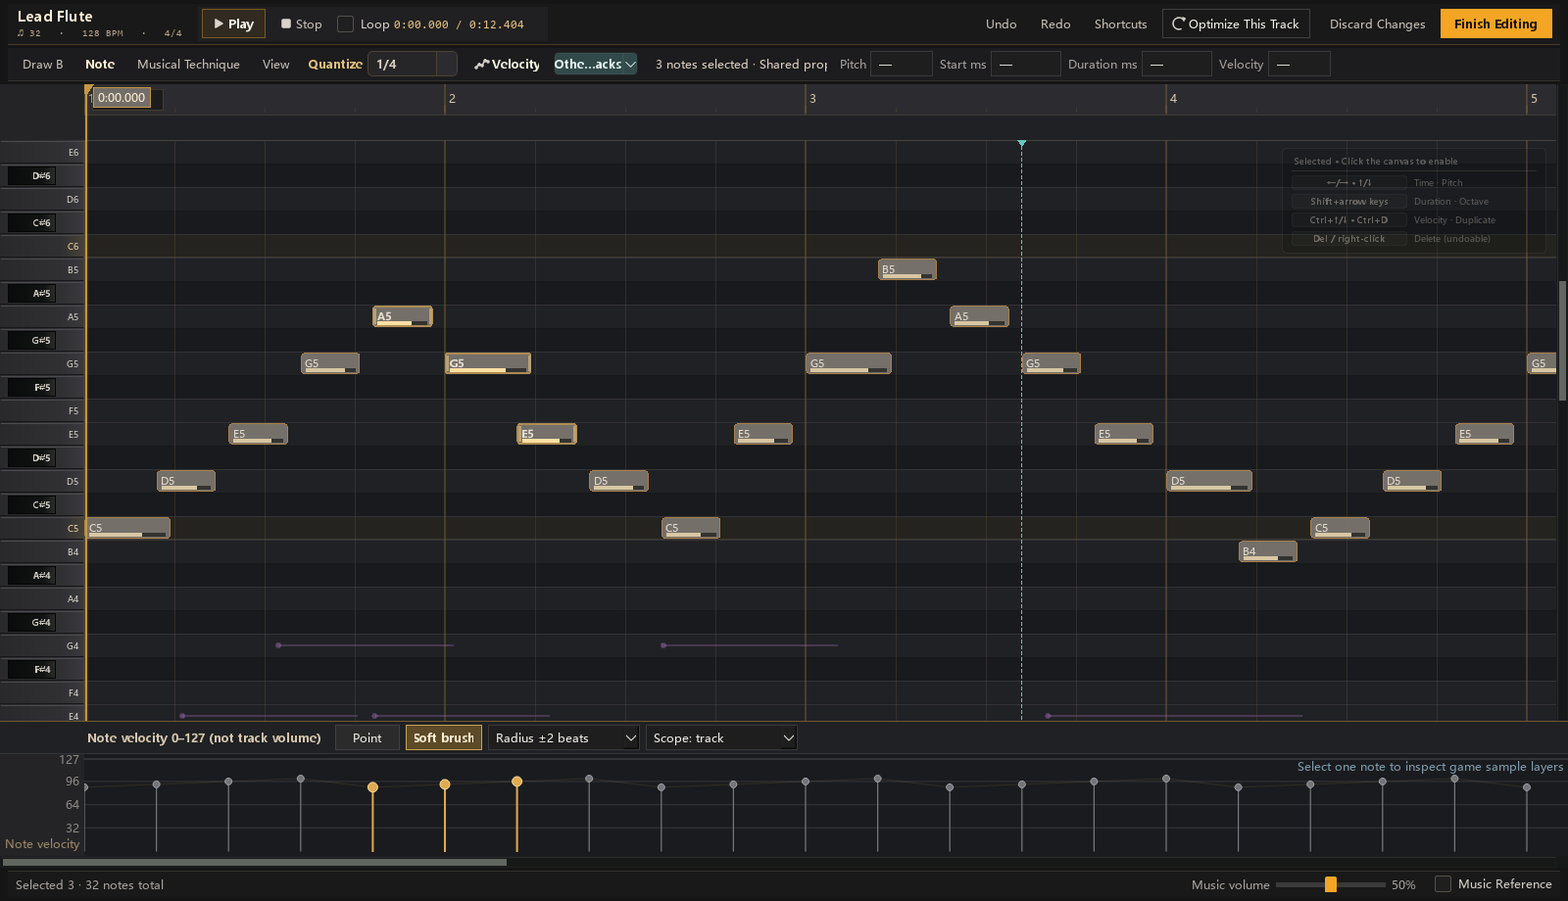
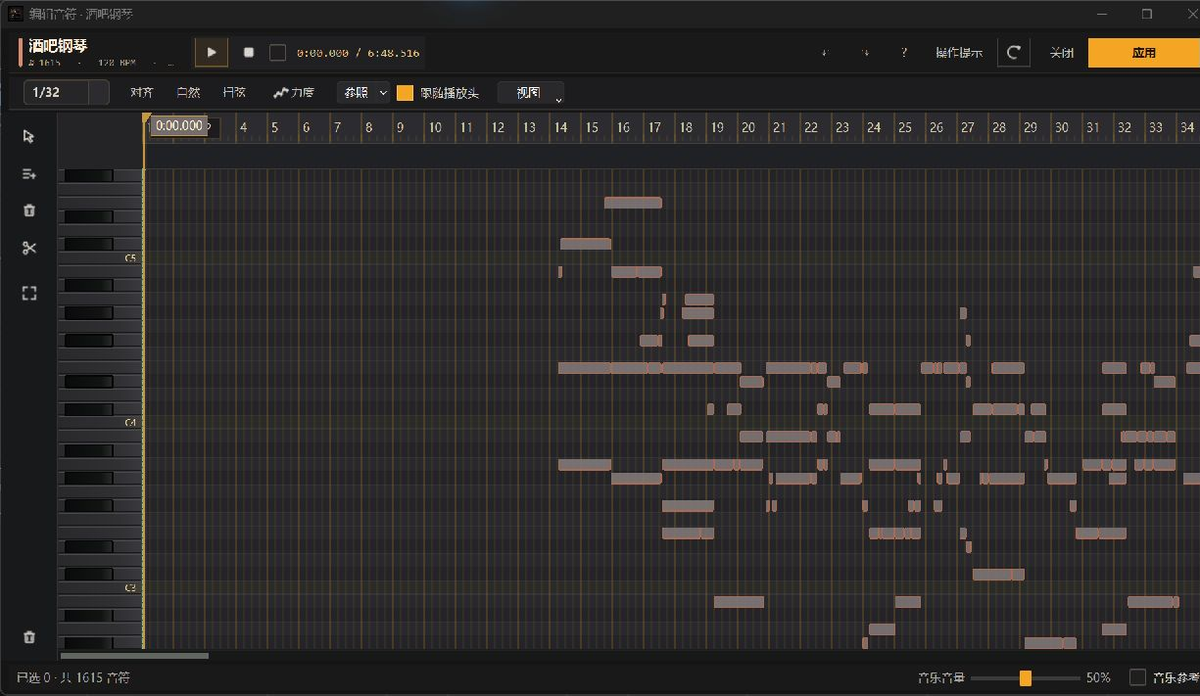
Refresh documentation and interface screenshots (#32)

Changed region(s): [[0.0, 0.0, 1.0, 1.0], [0.9927, 0.5879, 1.0, 0.6188]]

diff --git a/docs/README.md b/docs/README.md
@@ -1,90 +1,45 @@
-# Documentation index
+# Documentation
 
-This is the canonical index for current contracts, evidence, and historical
-records. User-facing summaries stay in [`locales/`](locales/).
+Use this page as the routing index for current product contracts, engineering
+guides, and historical evidence. User-facing guides live in
+[`locales/`](locales/). Current code and tests override historical records.
 
-Documentation is split into current contracts, domain references, and evidence.
-Tests and code override historical records.
+## Choose by task
 
-## Start here
+| Task | Read first | Continue with |
+|---|---|---|
+| Use the application | [Localized guides](locales/) | [Composition authoring](BDO_COMPOSITION_AUTHORING.md) |
+| Take over development | [Agent handoff](AGENT_HANDOFF.md) | [AI context](AI_CONTEXT.md), [editing guide](AI_EDITING_GUIDE.md) |
+| Understand the system | [Architecture](ARCHITECTURE.md) | [Project structure](PROJECT_STRUCTURE.md) |
+| Use the developer API | [Developer SDK](DEVELOPER_SDK.md) | [Extension roadmap](OPTIMIZATION_EXTENSION_ROADMAP.md) |
+| Package or publish | [Windows packaging](WINDOWS_PACKAGING.md) | [Localization](LOCALIZATION.md), [content boundary](CONTENT_BOUNDARY.md) |
+| Investigate performance | [Native core plan](PERFORMANCE_NATIVE_CORE_PLAN.md) | [Benchmarks](benchmarks/) |
+| Review product UI | [Creative language and UI audit](CREATIVE_LANGUAGE_AND_UI_AUDIT.md) | [Professional desktop gates](PROFESSIONAL_DESKTOP_PHASE6_10.md) |
 
-- [`AGENT_HANDOFF.md`](AGENT_HANDOFF.md) — takeover and validation workflow.
-- [`ARCHITECTURE.md`](ARCHITECTURE.md) — runtime data flow and component contracts.
-- [`AI_CONTEXT.md`](AI_CONTEXT.md) — task routing and minimum validation matrix.
-- [`AI_EDITING_GUIDE.md`](AI_EDITING_GUIDE.md) — owner and dependency rules.
-- [`PROJECT_STRUCTURE.md`](PROJECT_STRUCTURE.md) — directory and entry-point index.
-- [`DEVELOPER_SDK.md`](DEVELOPER_SDK.md) — stable core API, optional reusable UI,
-  examples, and deterministic source-SDK packaging.
-- [`OPTIMIZATION_EXTENSION_ROADMAP.md`](OPTIMIZATION_EXTENSION_ROADMAP.md) —
-  remaining structural work and performance gates.
-- [`PERFORMANCE_NATIVE_CORE_PLAN.md`](PERFORMANCE_NATIVE_CORE_PLAN.md) —
-  measured professional-performance targets, native-core decision gates, and
-  the staged Python/C++ integration plan.
+## Current contracts by domain
 
-- [`PROFESSIONAL_DESKTOP_PHASE6_10.md`](PROFESSIONAL_DESKTOP_PHASE6_10.md) —
-  trusted release, recovery, accessibility qualification, native-audio
-  promotion, and explainable BDO semantic gates.
-- [`CREATIVE_LANGUAGE_AND_UI_AUDIT.md`](CREATIVE_LANGUAGE_AND_UI_AUDIT.md) —
-  current visual language, interaction principles, and interface-by-interface
-  product audit.
-
-## Domain contracts
-
-- Format and export: [`BDO_V9_CODEC.md`](BDO_V9_CODEC.md),
-  [`BDO_MUSIC_NOTES.md`](BDO_MUSIC_NOTES.md),
-  [`CONVERSION_SETTINGS.md`](CONVERSION_SETTINGS.md), and
-  [`NOTE_ARTICULATION_TRANSPOSE_ALGORITHM_LOCK.md`](NOTE_ARTICULATION_TRANSPOSE_ALGORITHM_LOCK.md).
-- Editor and game evidence: [`BDO_COMPOSITION_AUTHORING.md`](BDO_COMPOSITION_AUTHORING.md),
-  [`BDO_MIXER_EFFECTS.md`](BDO_MIXER_EFFECTS.md), and
-  [`INSTRUMENT_EDITOR_ADAPTATION.md`](INSTRUMENT_EDITOR_ADAPTATION.md), plus
-  [`PERCUSSION_ROLL_EVALUATION.md`](PERCUSSION_ROLL_EVALUATION.md).
-- Music semantics: [`BDO_ARTICULATION_RULES.md`](BDO_ARTICULATION_RULES.md),
-  [`INSTRUMENT_ARTICULATION_GUIDE.md`](INSTRUMENT_ARTICULATION_GUIDE.md),
-  [`MIDI_TECHNIQUE_MODEL.md`](MIDI_TECHNIQUE_MODEL.md), and
-  [`MUSIC_THEORY_KNOWLEDGE_BASE.md`](MUSIC_THEORY_KNOWLEDGE_BASE.md).
-- Transcription: [`TRANSCRIPTION_VOICE_GUIDES.md`](TRANSCRIPTION_VOICE_GUIDES.md),
-  [`TRANSCRIPTION_FRAGMENT_AND_TIMBRE_PLAN.md`](TRANSCRIPTION_FRAGMENT_AND_TIMBRE_PLAN.md),
-  [`REFERENCE_TIMBRE_GROUPING.md`](REFERENCE_TIMBRE_GROUPING.md),
-  [`MARNIAN_MUSE_OPTIONAL_BOUNDARY.md`](MARNIAN_MUSE_OPTIONAL_BOUNDARY.md), and
-  [`BASIC_PITCH_LICENSE_REVIEW.md`](BASIC_PITCH_LICENSE_REVIEW.md).
-- Audio and samples: [`AUDIO_SOURCE_STRATEGY.md`](AUDIO_SOURCE_STRATEGY.md) and
-  [`BDO_SAMPLE_MAPPING_STATUS.md`](BDO_SAMPLE_MAPPING_STATUS.md). The governing
-  client-content rule is [`CONTENT_BOUNDARY.md`](CONTENT_BOUNDARY.md).
-- Product operations: [`LOCALIZATION.md`](LOCALIZATION.md) and
-  [`WINDOWS_PACKAGING.md`](WINDOWS_PACKAGING.md), including the signed
-  GitHub/Gitee single-EXE self-update release protocol.
-- Rehearsal tools: [`MULTIPLAYER_SYNCHRONIZER.md`](MULTIPLAYER_SYNCHRONIZER.md)
-  documents the Global BPM authority, automatic reference-tempo following, and
-  the reserved network-room adapter boundary.
+| Domain | Canonical references |
+|---|---|
+| Format and export | [BDO v9 codec](BDO_V9_CODEC.md), [music notes](BDO_MUSIC_NOTES.md), [conversion settings](CONVERSION_SETTINGS.md), [articulation and transpose lock](NOTE_ARTICULATION_TRANSPOSE_ALGORITHM_LOCK.md) |
+| Editor and game evidence | [Composition authoring](BDO_COMPOSITION_AUTHORING.md), [mixer effects](BDO_MIXER_EFFECTS.md), [instrument editor adaptation](INSTRUMENT_EDITOR_ADAPTATION.md), [percussion roll evaluation](PERCUSSION_ROLL_EVALUATION.md) |
+| Music semantics | [Articulation rules](BDO_ARTICULATION_RULES.md), [instrument articulation](INSTRUMENT_ARTICULATION_GUIDE.md), [MIDI technique model](MIDI_TECHNIQUE_MODEL.md), [music theory](MUSIC_THEORY_KNOWLEDGE_BASE.md) |
+| Transcription | [Voice guides](TRANSCRIPTION_VOICE_GUIDES.md), [fragment and timbre plan](TRANSCRIPTION_FRAGMENT_AND_TIMBRE_PLAN.md), [reference timbre grouping](REFERENCE_TIMBRE_GROUPING.md), [Marnian Muse boundary](MARNIAN_MUSE_OPTIONAL_BOUNDARY.md), [Basic Pitch license review](BASIC_PITCH_LICENSE_REVIEW.md) |
+| Audio and samples | [Audio source strategy](AUDIO_SOURCE_STRATEGY.md), [sample mapping status](BDO_SAMPLE_MAPPING_STATUS.md), [content boundary](CONTENT_BOUNDARY.md) |
+| Product operations | [Localization](LOCALIZATION.md), [Windows packaging](WINDOWS_PACKAGING.md) |
+| Rehearsal tools | [Multiplayer synchronizer](MULTIPLAYER_SYNCHRONIZER.md) |
 
 ## Evidence and history
 
-- [`releases/RELEASE_NOTES_V1.2.1.md`](releases/RELEASE_NOTES_V1.2.1.md)
-  records the current v1.2.1 sample-pack preview release and verification.
-- [`releases/RELEASE_NOTES_V1.2.0.2.md`](releases/RELEASE_NOTES_V1.2.0.2.md)
-  records the historical v1.2.0.2 percussion-editor test release and verification.
-- [`releases/RELEASE_NOTES_V1.2.0.1.md`](releases/RELEASE_NOTES_V1.2.0.1.md)
-  records the historical v1.2.0.1 test-release scope and verification evidence.
-- [`releases/RELEASE_NOTES_V1.2.0.md`](releases/RELEASE_NOTES_V1.2.0.md)
-  records the historical v1.2.0 release scope and verification evidence.
-- [`releases/RELEASE_NOTES_V1.1.2.md`](releases/RELEASE_NOTES_V1.1.2.md)
-  records the historical v1.1.2 release scope and verification evidence.
-- [`releases/RELEASE_NOTES_V1.1.1.md`](releases/RELEASE_NOTES_V1.1.1.md)
-  records the historical v1.1.1 release scope and verification evidence.
-- [`releases/RELEASE_NOTES_V1.1.0.md`](releases/RELEASE_NOTES_V1.1.0.md)
-  records the historical v1.1.0 release scope and verification evidence.
-- [`benchmarks/`](benchmarks/) contains reproducible benchmark protocols and
+- [`releases/`](releases/) contains versioned release scope and verification
+  records. The latest packaged sample-preview record is
+  [v1.2.1](releases/RELEASE_NOTES_V1.2.1.md); the source application is currently
+  v1.3.0.
+- [`benchmarks/`](benchmarks/) contains reproducible performance protocols and
   result snapshots.
-- [`benchmarks/performance_native_phase0_5_2026-08-09.md`](benchmarks/performance_native_phase0_5_2026-08-09.md)
-  records the measured Phase 0–5 performance/native evaluation, gate decisions,
-  and final regression evidence.
-- [`benchmarks/performance_refinement_2026-08-10.md`](benchmarks/performance_refinement_2026-08-10.md)
-  records the post-Phase 10 hot-path diagnosis, piano-roll refinement, current
-  Python/native audio gate, and code-capability assessment.
-- [`benchmarks/windows_p0_p4_2026-08-10.md`](benchmarks/windows_p0_p4_2026-08-10.md)
-  records the Windows-only P0–P4 interaction gates, refresh extraction, native
-  semantic parity boundary, extension contracts, and measured limitations.
-- [`reference/game-ui/README.md`](reference/game-ui/README.md) indexes
-  private-source-safe game UI evidence.
-- [`history/`](history/) contains implementation and dated audit records.
-- [`releases/`](releases/) contains release records.
+- [`history/`](history/) contains dated implementation and audit records.
+- [`reference/game-ui/`](reference/game-ui/) indexes private-source-safe game UI
+  evidence.
+
+Historical documents describe the state at the date recorded. Do not use them
+as a substitute for the current contracts above, `AGENTS.md`, or regression
+tests.

diff --git a/README.md b/README.md
@@ -1,69 +1,73 @@
 # BDO Music Composer
 
-Unofficial desktop music editor and Black Desert score workbench.
+Unofficial desktop music editor and Black Desert score workbench. Arrange
+multitrack clips, edit MIDI notes, preview locally, and export the current
+project state as a BDO v9 score.
 
-## Interface preview
+[简体中文](docs/locales/zh-CN.md) · [English](docs/locales/en.md) ·
+[日本語](docs/locales/ja.md) · [한국어](docs/locales/ko.md)
 
-![Project home with local projects and game scores](docs/images/readme-home.png)
+![BDO Music Composer v1.3.0 multitrack arrangement](docs/images/readme-timeline.png)
 
-| Multitrack timeline | Piano-roll note editor |
+## Highlights
+
+- Arrange and merge clips across a multitrack timeline with select, razor, and
+  stateful snapping tools. Snap priority is time marker, clips, then grid.
+- Edit notes, velocity, rhythm, articulations, and track instruments in the
+  piano roll while keeping operations undoable.
+- Open MIDI or existing BDO scores, autosave locally, preview the edited model,
+  and export that same current model without falling back to the original MIDI.
+- Use local optimization and transcription assistance as reviewable editing
+  aids rather than destructive one-click replacements.
+
+## Get started
+
+Most users should download the Windows build from
+[GitHub Releases](https://github.com/CocoaMist/3007-BDO_Music_Composer/releases).
+Source development requires Python 3.12 and the environment described in
+[`CONTRIBUTING.md`](CONTRIBUTING.md). The application entry point is `main.py`.
+
+1. Create a project, import MIDI, or open a BDO score.
+2. Arrange clips on the timeline and edit notes in the piano roll.
+3. Preview the result and review automatic export validation.
+4. Export with a valid Owner ID, then verify the score in game.
+
+## Note editor
+
+![BDO Music Composer v1.3.0 piano-roll note editor](docs/images/readme-piano-roll.png)
+
+## Documentation
+
+| Need | Start here |
 |---|---|
-| ![Multitrack arrangement timeline](docs/images/readme-timeline.png) | ![Piano-roll editor with velocity lane and shortcut HUD](docs/images/readme-piano-roll.png) |
+| Use the application | [中文](docs/locales/zh-CN.md) · [English](docs/locales/en.md) · [日本語](docs/locales/ja.md) · [한국어](docs/locales/ko.md) |
+| Browse technical documentation | [Documentation index](docs/README.md) |
+| Understand architecture and data flow | [Architecture](docs/ARCHITECTURE.md) |
+| Contribute code | [Contributing guide](CONTRIBUTING.md) |
+| Continue work as an agent or maintainer | [`AGENTS.md`](AGENTS.md), then [Agent handoff](docs/AGENT_HANDOFF.md) |
+| Build a Windows release | [Windows packaging](docs/WINDOWS_PACKAGING.md) |
 
-## Choose your language / 选择语言
+## Local content and preview audio
 
-Each link opens a concise guide for using and contributing to the project.
+Projects, settings, Owner IDs, caches, and external content remain local. The
+application has no account login, telemetry, or file upload, and it does not
+acquire or distribute restricted content. See the governing
+[content boundary](docs/CONTENT_BOUNDARY.md).
 
-| Language | Full README |
-|---|---|
-| 简体中文 | [中文指南](docs/locales/zh-CN.md) |
-| English | [English guide](docs/locales/en.md) |
-| 日本語 | [日本語ガイド](docs/locales/ja.md) |
-| 한국어 | [한국어 안내](docs/locales/ko.md) |
+Releases may separately provide the optional
+`BDO-Approximate-CC0-Full-Coverage-v4-Compact.bdosamples` pack. It contains
+independently licensed CC0 material for approximate editing preview, not Black
+Desert client audio or game-original sound. Provenance, configuration, and the
+v1.2.1 pack checksum are documented in
+[Audio source strategy](docs/AUDIO_SOURCE_STRATEGY.md).
 
-## Agent / maintainer handoff
+## Status and license
 
-AI coding agents and new maintainers must start with [`AGENTS.md`](AGENTS.md), then read the [Agent handoff and collaboration guide](docs/AGENT_HANDOFF.md). The guide contains the repository routing map, invariants, validation matrix, privacy rules, and a reusable handoff packet.
+Core editing, autosave, optimization, preview, transcription assistance, and
+score export have automated regression coverage. Hardware, audio-device, and
+game-version compatibility can still vary. This community project is not
+affiliated with Pearl Abyss.
 
-继续开发前，AI Agent 与新维护者必须先阅读 [`AGENTS.md`](AGENTS.md)，再阅读 [Agent 接手与协作手册](docs/AGENT_HANDOFF.md)。
-
-## Project status
-
-The core editing, autosave, optimization, preview, transcription-assist, and score-export flows are regression tested, but hardware and game-version compatibility can vary. This is an unofficial community project and is not affiliated with Pearl Abyss.
-
-The application processes projects locally. It has no account login, telemetry, or file upload. It does not provide restricted-content acquisition or distribution; users are responsible for the source and permission of external content.
-
-## Optional CC0 sample pack
-
-Releases may provide `BDO-Approximate-CC0-Full-Coverage-v4-Compact.bdosamples`
-as a separate, optional preview asset. The app itself remains usable with its
-built-in general source; choose **Sample Pack** in Settings to locate this or
-another compatible pack. External pack paths stay in local configuration and
-are never compiled into the EXE.
-
-The v4 pack contains unchanged WAV bytes selected from three independently
-licensed CC0 libraries: [VSCO 2 Community Edition](https://github.com/sgossner/VSCO-2-CE),
-[Versilian Community Sample Library](https://github.com/sgossner/VCSL), and the
-CC0 instrument banks published by [FreePats](https://freepats.zenvoid.org/).
-Its `manifest.json` records the source library, upstream relative path, and
-SHA-256 for every audio slot. It contains no Black Desert client audio and is
-an approximate editing preview, not game-original or A/B-verified sound.
-
-Release v1.2.1 pack SHA-256:
[1 lines of base64/hex data omitted]
-
-## Quick links
-
-- [Documentation index](docs/README.md)
-- [Developer SDK and reusable UI](docs/DEVELOPER_SDK.md)
-- [Architecture](docs/ARCHITECTURE.md)
-- [Content and audio boundary](docs/CONTENT_BOUNDARY.md)
-- [AI change-routing context](docs/AI_CONTEXT.md)
-- [Agent handoff guide](docs/AGENT_HANDOFF.md)
-- [Decoupling, performance, and extension roadmap](docs/OPTIMIZATION_EXTENSION_ROADMAP.md)
-- [Windows packaging](docs/WINDOWS_PACKAGING.md)
-- [BDO v9 codec](docs/BDO_V9_CODEC.md)
-- [Localization policy](docs/LOCALIZATION.md)
-- [Contributing](CONTRIBUTING.md)
-- [Third-party notices](THIRD_PARTY_NOTICES.md)
-- [MIT license for original project code](LICENSE)
+Original project code is available under the [MIT License](LICENSE).
+Third-party components and references retain their own terms; see
+[Third-party notices](THIRD_PARTY_NOTICES.md).

diff --git a/docs/ARCHITECTURE.md b/docs/ARCHITECTURE.md
@@ -442,8 +442,8 @@ optimizer cannot block repainting the main UI. `registry.py` and
 The preview validator distinguishes imported compatibility debt from newly
 created unsafe output: an unchanged out-of-map pitch, manual articulation, or
 legacy drum encoding may be timing/velocity-cleaned but cannot be duplicated or
-invented.  Such source issues stay visible as diagnostics and remain owned by
-the conversion-check/export gate rather than disabling the optimizer dialog.
+invented. Such source issues stay visible through automatic timeline/export
+validation rather than disabling the optimizer dialog.
 
 `src/bdo_music_composer/ui/dialogs/optimizer_dialog.py` exposes one **MIDI Optimization** workbench instead of
 separate global and track dialogs. Scope is a first-level control shown before
@@ -910,9 +910,9 @@ projected onto each affected lane. Red rails and `!` badges are reserved for har
 export errors; amber rails and merge badges are non-blocking attention marks for
 same-instrument export merges. Each lane renders only its highest severity: an
 error lane stays fully red, while its lower-priority merge information remains
-in the tooltip/check dialog instead of splitting the lane red/amber. Hover exposes
-the localized reasons and clicking a badge opens the matching conversion-check
-item. There is no dedicated persistent validation row above the canvas; only a
+in the lane tooltip instead of splitting the lane red/amber. Hover exposes the
+localized reasons. There is no conversion-check menu or dedicated persistent
+validation row above the canvas; only a
 deduplicated global toast appears when the highest validation state changes, then
 automatically clears. Validation remains owned by `src/bdo_music_composer/export/bdo_validation.py`.
 
@@ -984,8 +984,8 @@ name, and destination gates. `build_export_request()` then freezes every formal
 worker starts. It derives articulation, Volume and dual-velocity maps from that
 same snapshot, preserves per-track Aux bytes, and overlays the single Master
 layer. A malformed eight-byte source setting fails closed instead of being
-silently replaced. The worker therefore never races later editor mutations. `prepare_export()` owns
-Conversion diagnostics are advisory at this boundary: users may explicitly
+silently replaced. The worker therefore never races later editor mutations.
+Automatic conversion diagnostics are advisory at this boundary: users may explicitly
 confirm an export with note/range/mapping errors, while Owner ID, `/4` meter,
 destination, serializer, verification, and atomic-publication failures remain
 hard stops. `prepare_export()` owns

diff --git a/docs/AGENT_HANDOFF.md b/docs/AGENT_HANDOFF.md
@@ -51,10 +51,10 @@ MIDI / BDO v9
 | 任务 | 首要模块 | 边界说明 |
 |---|---|---|
 | 主窗口信号和工作流编排 | `src/bdo_music_composer/ui/main_window.py` | 只放 UI 编排；新领域逻辑优先进入聚焦模块 |
-| 模型 revision / 转换校验 | `src/bdo_music_composer/editor/model_revision.py`, `src/bdo_music_composer/app/conversion_validation_controller.py` | 可变轨道必须经过显式 mutation boundary；快照只按 revision/语言复用 |
+| 模型 revision / 自动导出校验 | `src/bdo_music_composer/editor/model_revision.py`, `src/bdo_music_composer/app/conversion_validation_controller.py`, `src/bdo_music_composer/ui/timeline_validation_host.py` | 可变轨道必须经过显式 mutation boundary；快照只按 revision/语言复用；结果投影到时间轴与导出确认，不提供独立“转换检查”菜单 |
 | 轨道/音符共享模型 | `src/bdo_music_composer/editor/editor_models.py`, `src/bdo_midi/` | `Note(pitch, vel, start, dur, ntype)` 线形状不可随意改变 |
 | 时间轴/钢琴卷帘 | `src/bdo_music_composer/ui/editor/timeline_canvas.py`, `src/bdo_music_composer/ui/editor/piano_roll_canvas.py`, `src/bdo_music_composer/ui/editor/midi_note_editor.py` | 绘制必须保持可见区索引和批处理 |
-| 设置、检查、优化、致谢 | `src/bdo_music_composer/ui/dialogs/application_settings_dialog.py`, `src/bdo_music_composer/ui/dialogs/conversion_check_dialog.py`, `src/bdo_music_composer/ui/dialogs/optimizer_dialog.py`, `src/bdo_music_composer/ui/dialogs/track_settings_dialogs.py`, `src/bdo_music_composer/ui/dialogs/acknowledgements_dialog.py` | 对话框自主管布局和展示，主窗口只注入状态并应用结果 |
+| 设置、优化、轨道配置、致谢 | `src/bdo_music_composer/ui/dialogs/application_settings_dialog.py`, `src/bdo_music_composer/ui/dialogs/optimizer_dialog.py`, `src/bdo_music_composer/ui/dialogs/track_settings_dialogs.py`, `src/bdo_music_composer/ui/dialogs/acknowledgements_dialog.py` | 对话框自主管布局和展示，主窗口只注入状态并应用结果 |
 | 优化算法 | `src/optimization/` | `builtin.py` 是生产管线，`registry.py` / plugin API 是扩展边界 |
 | 实时预览 | `src/bdo_music_composer/audio/bdo_realtime_audio.py`, `src/bdo_music_composer/audio/bdo_sample_renderer.py` | 音频回调禁止磁盘 I/O、解码和无界分配 |
 | 扒谱 | `bdo_transcription*.py`, `src/bdo_music_composer/ui/transcription/transcription_workers.py` | 分析后台运行；正式音符只能经用户确认写回 |

diff --git a/docs/locales/ja.md b/docs/locales/ja.md
@@ -14,10 +14,11 @@ BDO Music Composer は、Black Desert の楽譜をローカルで作成・確認
 <!-- section:features -->
 ## 主な機能
 
-- MIDI の読み込みまたは空のプロジェクトから、複数トラックのノート、ベロシティ、リズム、奏法を編集。
+- MIDI の読み込みまたは空のプロジェクトから、マルチトラック上のクリップを配置、分割、移動、結合。
+- マーカー、クリップ、グリッドの順で優先する自動スナップを使い、ピアノロールでノート、ベロシティ、リズム、奏法を編集。
 - 現在の編集状態を保ったまま既存楽譜を開き、再編集して書き出し。
 - ローカル採譜支援の結果を、確定前に編集可能な下書きとして確認。
-- 取り消し可能な最適化、自動保存、書き出し検査、ローカルプロジェクト管理。
+- 取り消し可能な最適化、自動保存、自動書き出し検証、ローカルプロジェクト管理。
 
 <!-- section:requirements -->
 ## 導入と起動
@@ -28,8 +29,8 @@ BDO Music Composer は、Black Desert の楽譜をローカルで作成・確認
 ## 基本ワークフロー
 
 1. プロジェクト作成、MIDI 読み込み、または楽譜を開きます。
-2. アレンジとノートを編集します。
-3. 試聴と検査で結果を確認します。
+2. タイムラインでクリップを配置し、ピアノロールでノートを調整します。
+3. 試聴と自動検証で結果を確認します。
 4. 有効な Owner ID で書き出し、ゲーム内で確認します。
 
 <!-- section:local-assets -->

diff --git a/docs/locales/ko.md b/docs/locales/ko.md
@@ -14,10 +14,11 @@ BDO Music Composer는 Black Desert 악보를 로컬에서 만들고 검토하고
 <!-- section:features -->
 ## 주요 기능
 
-- MIDI를 가져오거나 빈 프로젝트에서 시작해 여러 트랙의 음표, 벨로시티, 리듬, 주법을 편집합니다.
+- MIDI를 가져오거나 빈 프로젝트에서 시작해 멀티트랙 타임라인의 클립을 배치, 분할, 이동, 병합합니다.
+- 마커, 클립, 그리드 순서의 자동 스냅을 사용하고 피아노 롤에서 음표, 벨로시티, 리듬, 주법을 편집합니다.
 - 현재 편집 상태를 유지하면서 기존 악보를 열고 다시 내보냅니다.
 - 로컬 채보 지원 결과를 확정 전에 편집 가능한 초안으로 검토합니다.
-- 취소 가능한 최적화, 자동 저장, 내보내기 검사, 로컬 프로젝트 관리를 제공합니다.
+- 취소 가능한 최적화, 자동 저장, 자동 내보내기 검증, 로컬 프로젝트 관리를 제공합니다.
 
 <!-- section:requirements -->
 ## 설치와 실행
@@ -28,8 +29,8 @@ BDO Music Composer는 Black Desert 악보를 로컬에서 만들고 검토하고
 ## 기본 작업 흐름
 
 1. 프로젝트를 만들거나 MIDI를 가져오거나 악보를 엽니다.
-2. 편곡과 음표를 편집합니다.
-3. 미리듣기와 검사로 결과를 확인합니다.
+2. 타임라인에서 클립을 배치하고 피아노 롤에서 음표를 다듬습니다.
+3. 미리듣기와 자동 검증으로 결과를 확인합니다.
 4. 유효한 Owner ID로 내보낸 뒤 게임 안에서 확인합니다.
 
 <!-- section:local-assets -->

diff --git a/docs/locales/en.md b/docs/locales/en.md
@@ -14,10 +14,11 @@ Editing, autosave, optimization, preview, transcription assistance, and score ex
 <!-- section:features -->
 ## Features
 
-- Import MIDI or begin with an empty project and edit multitrack notes, velocity, rhythm, and articulations.
+- Import MIDI or begin with an empty project, then arrange, split, move, and merge clips on the multitrack timeline.
+- Use stateful snapping with marker, clip, then grid priority, and edit notes, velocity, rhythm, and articulations in the piano roll.
 - Continue editing existing scores while preserving the current project state through export.
 - Review local transcription assistance as an editable draft before committing it.
-- Use undoable optimization, autosave, export checks, and local project management.
+- Use undoable optimization, autosave, automatic export validation, and local project management.
 
 <!-- section:requirements -->
 ## Install and run
@@ -28,8 +29,8 @@ Most users should use the published Windows build. Source development requires P
 ## Basic workflow
 
 1. Create a project, import MIDI, or open a score.
-2. Edit the arrangement and notes.
-3. Review the result with preview and validation.
+2. Arrange clips on the timeline and refine notes in the piano roll.
+3. Review the result with preview and automatic validation.
 4. Export with a valid Owner ID and verify the score in game.
 
 <!-- section:local-assets -->

diff --git a/docs/LOCALIZATION.md b/docs/LOCALIZATION.md
@@ -75,8 +75,8 @@ are equivalent.
 Before publishing a build:
 
 1. Verify equal catalog key sets and equal placeholder signatures.
-2. Switch a live main window, Settings dialog, note editor, conversion check, and
-   transcription editor through all five locales.
+2. Switch a live main window, Settings dialog, note editor, automatic timeline
+   validation states, and transcription editor through all five locales.
 3. Confirm dynamic names survive every switch byte-for-byte.
 4. Check the minimum supported window sizes with the longest English/Japanese/
    Korean labels and confirm tooltips/accessibility names remain available in
